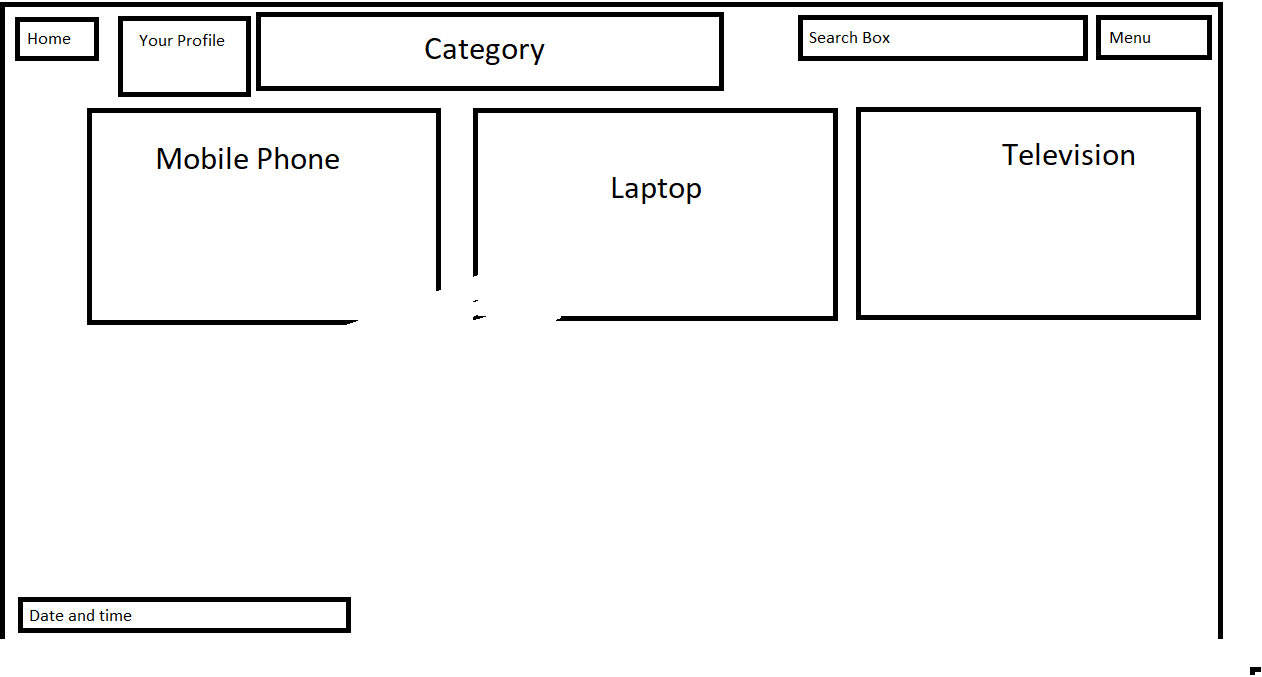
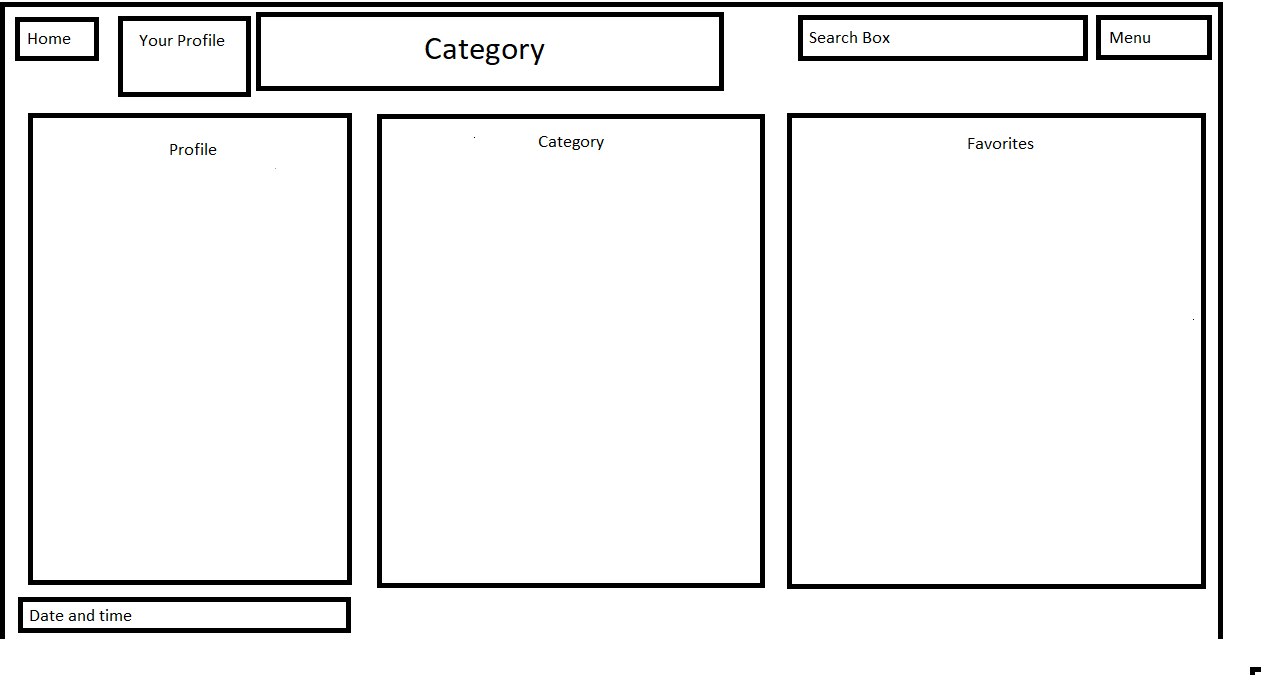
Deleting Kivy Projects and Starting to code with QT5

Changed region(s): [[0.0, 0.1551, 0.958, 0.8685], [0.4945, 0.2482, 0.5563, 0.3102]]

diff --git a/Versions/Version1/main.py b/Versions/Version1/main.py
@@ -1,36 +1,6 @@
 '''
-This is First Version of the Project That It's just the front of Project
-And Just its Homepage
+Importing QT5 
+Coding for Interface
+
 '''
-
-import kivy
-from kivy.app import App
-from kivy.lang import Builder
-from kivy.uix.screenmanager import ScreenManager, Screen
-
-
-kv = Builder.load_file('Versions/Version1/my.kv')
-
-class HomePage(Screen):
-    LoggedIn = True
-
-class MenuPage(Screen):
-    pass
-class WindowManager(ScreenManager):
-    pass
-
-sm = WindowManager()
-
-screens = [HomePage(name= "HomePage"), MenuPage(name= "MenuPage")]
-for screen in screens:
-    sm.add_widget(screen)
-
-sm.current = "MenuPage"
-
-class MyApp(App):
-    def build(self):
-        return sm
-    
-
-if __name__ == '__main__':
-    MyApp().run()
+import pyQt5
